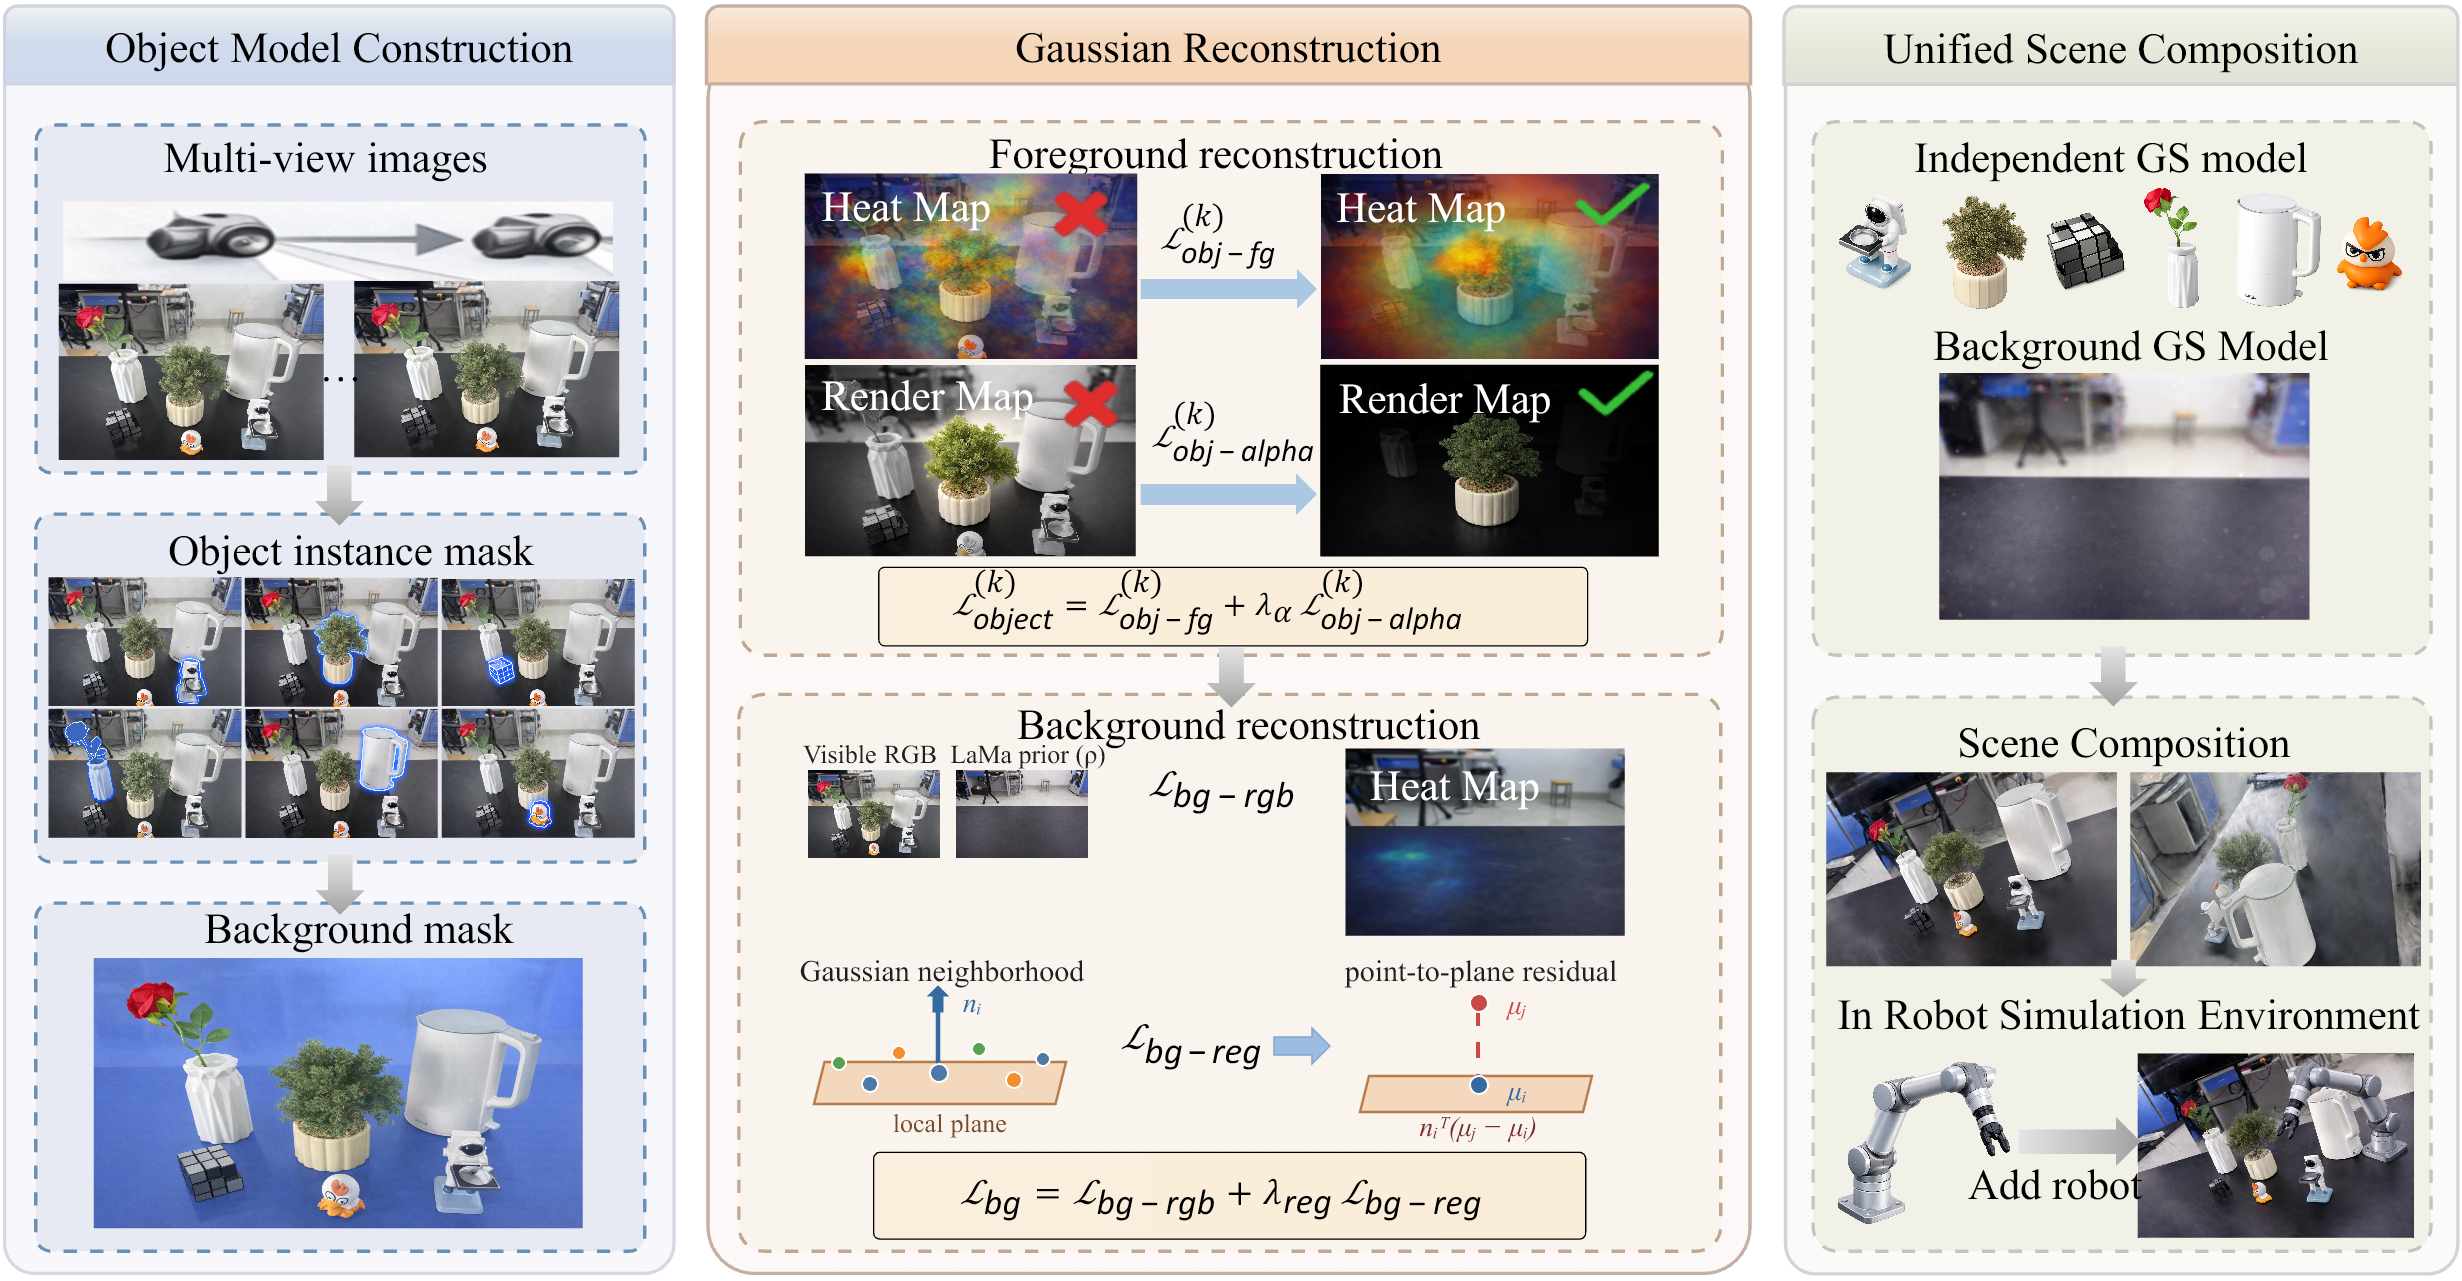
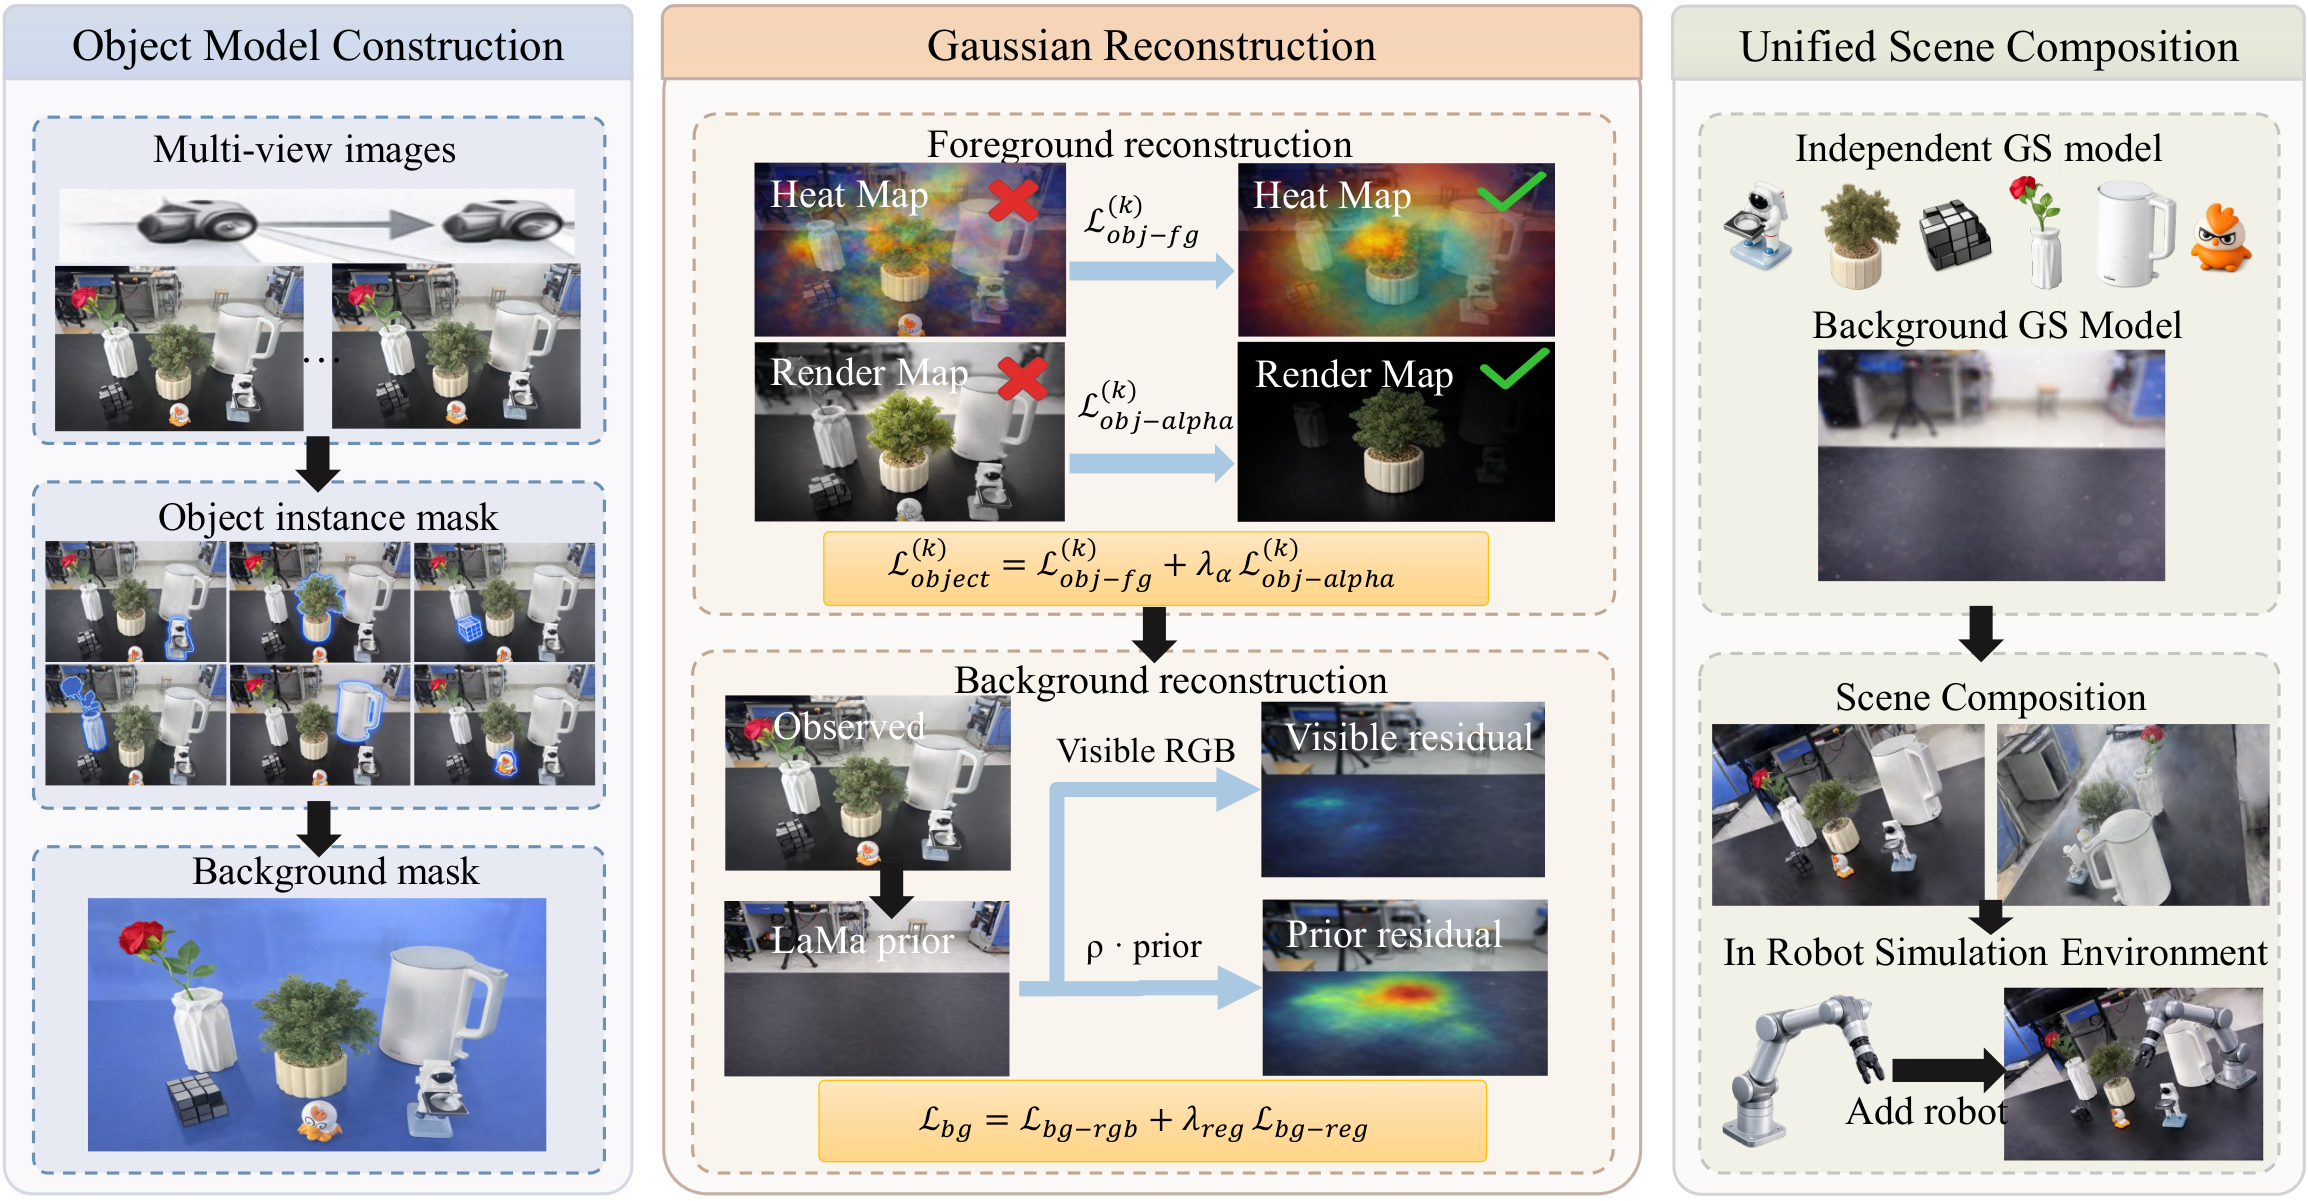
Align project page with current manuscript

diff --git a/index.html b/index.html
@@ -182,17 +182,12 @@
           <article class="feature-card">
             <div class="feature-icon"><i class="fas fa-object-ungroup"></i></div>
             <h3>Foreground and alpha decoupling</h3>
-            <p>Instance-mask foreground supervision and mask-outside alpha suppression restrict each object model to its own support region and reduce non-target opacity responses.</p>
+            <p>Instance-mask foreground supervision and mask-outside alpha suppression restrict each identity-aware object group to its own support region and reduce non-target opacity responses.</p>
           </article>
           <article class="feature-card">
             <div class="feature-icon"><i class="fas fa-robot"></i></div>
             <h3>Asset-interface composition</h3>
             <p>Independent object and background Gaussian models are composed in a shared coordinate system, supporting omission, repositioning, visual recomposition, and downstream USD/USDZ conversion.</p>
-          </article>
-          <article class="feature-card">
-            <div class="feature-icon"><i class="fas fa-chart-line"></i></div>
-            <h3>Evidence chain</h3>
-            <p>Evaluation links object reconstruction, background recovery, composed-scene consistency, and the displayed Isaac Sim visual-import records to the same object-level decoupling claim.</p>
           </article>
         </div>
       </div>
@@ -280,7 +275,7 @@
             The source release provides the paper-aligned training losses, PSNR/SSIM/LPIPS evaluation, the reported leakage metric, an auxiliary boundary-analysis protocol, executable parameter-level composition, conversion utilities, simulation-interface documentation, figure-level provenance, and a category-level asset policy.
           </p>
           <p>
-            Source-resolution media, original recordings, model weights, Gaussian outputs, and USD/USDZ assets are excluded. Public manifests do not expose source filenames, experiment paths, episode identifiers, file sizes, or source-media hashes.
+            Source-resolution media, original recordings, model weights, Gaussian outputs, and USD/USDZ assets are not included in this public release. The public manifests document only category-level local paths and do not provide or advertise a data-download package.
           </p>
         </div>
       </div>

diff --git a/README.md b/README.md
@@ -10,7 +10,7 @@ Project page: https://emboailab.github.io/DOGS/
 
 The project page and source release omit author biographies, personal contact details, and local machine paths. This author-neutral release policy is independent of the journal's single-anonymized manuscript review model.
 
-The release is intentionally source-focused. It does not include full upstream repositories, source-resolution datasets, original recordings, model weights, checkpoints, PLY point clouds, USD/USDZ/FBX/GLB assets, or experiment outputs. The project page uses only downsampled, metadata-stripped presentation derivatives. Paper-related large files are listed by category in `Assets/ASSET_MANIFEST.csv` and should be distributed separately.
+The release is intentionally source-focused. It does not include full upstream repositories, source-resolution datasets, original recordings, model weights, checkpoints, PLY point clouds, USD/USDZ/FBX/GLB assets, or experiment outputs. The project page uses only downsampled, metadata-stripped presentation derivatives. `Assets/ASSET_MANIFEST.csv` documents category-level local paths only and is not a data-download index.
 
 ## Repository Contents
 
@@ -79,7 +79,7 @@ Python packages used by the local conversion scripts include `numpy`, `scipy`, `
 
 ## Large Assets and Demo Media
 
-Source-resolution media and large binary assets are excluded from GitHub. Restore paper-related assets according to:
+Source-resolution media and large binary assets are not included in this public release. The following files document category-level local paths and provenance only:
 
 - `Assets/README.md`
 - `Assets/ASSET_MANIFEST.csv`

diff --git a/Assets/README.md b/Assets/README.md
@@ -1,16 +1,8 @@
-# Large Asset Package
+# Asset Policy
 
-Source-resolution captures, original recordings, model outputs, and generated simulation assets are not stored in GitHub. They should be distributed through an external package and restored locally when needed.
+Source-resolution captures, original recordings, model outputs, and generated simulation assets are not included in this public release. No data-download package or cloud-drive link is provided or advertised by this repository.
 
-Recommended package name:
-
-```text
-DOGS-paper-assets
-```
-
-No cloud-drive URL is committed in this source release. Keep access links in the project release notes or repository release page.
-
-The external package should preserve the category-level restore paths listed in `ASSET_MANIFEST.csv`. The public manifest intentionally omits source filenames, experiment-directory names, episode identifiers, byte counts, and source-media hashes.
+`ASSET_MANIFEST.csv` documents category-level local paths used by the project workflow. It is a placement-policy reference rather than an availability or download index, and intentionally omits source filenames, experiment-directory names, episode identifiers, byte counts, and source-media hashes.
 
 `FIGURE_SOURCE_MANIFEST.csv` records only figure-level source classes and provenance. It does not inventory the underlying recordings or raw captures. The repository contains a small set of downsampled, metadata-stripped page derivatives under `static/`; these files are public presentation media rather than source-resolution experimental data.
 
